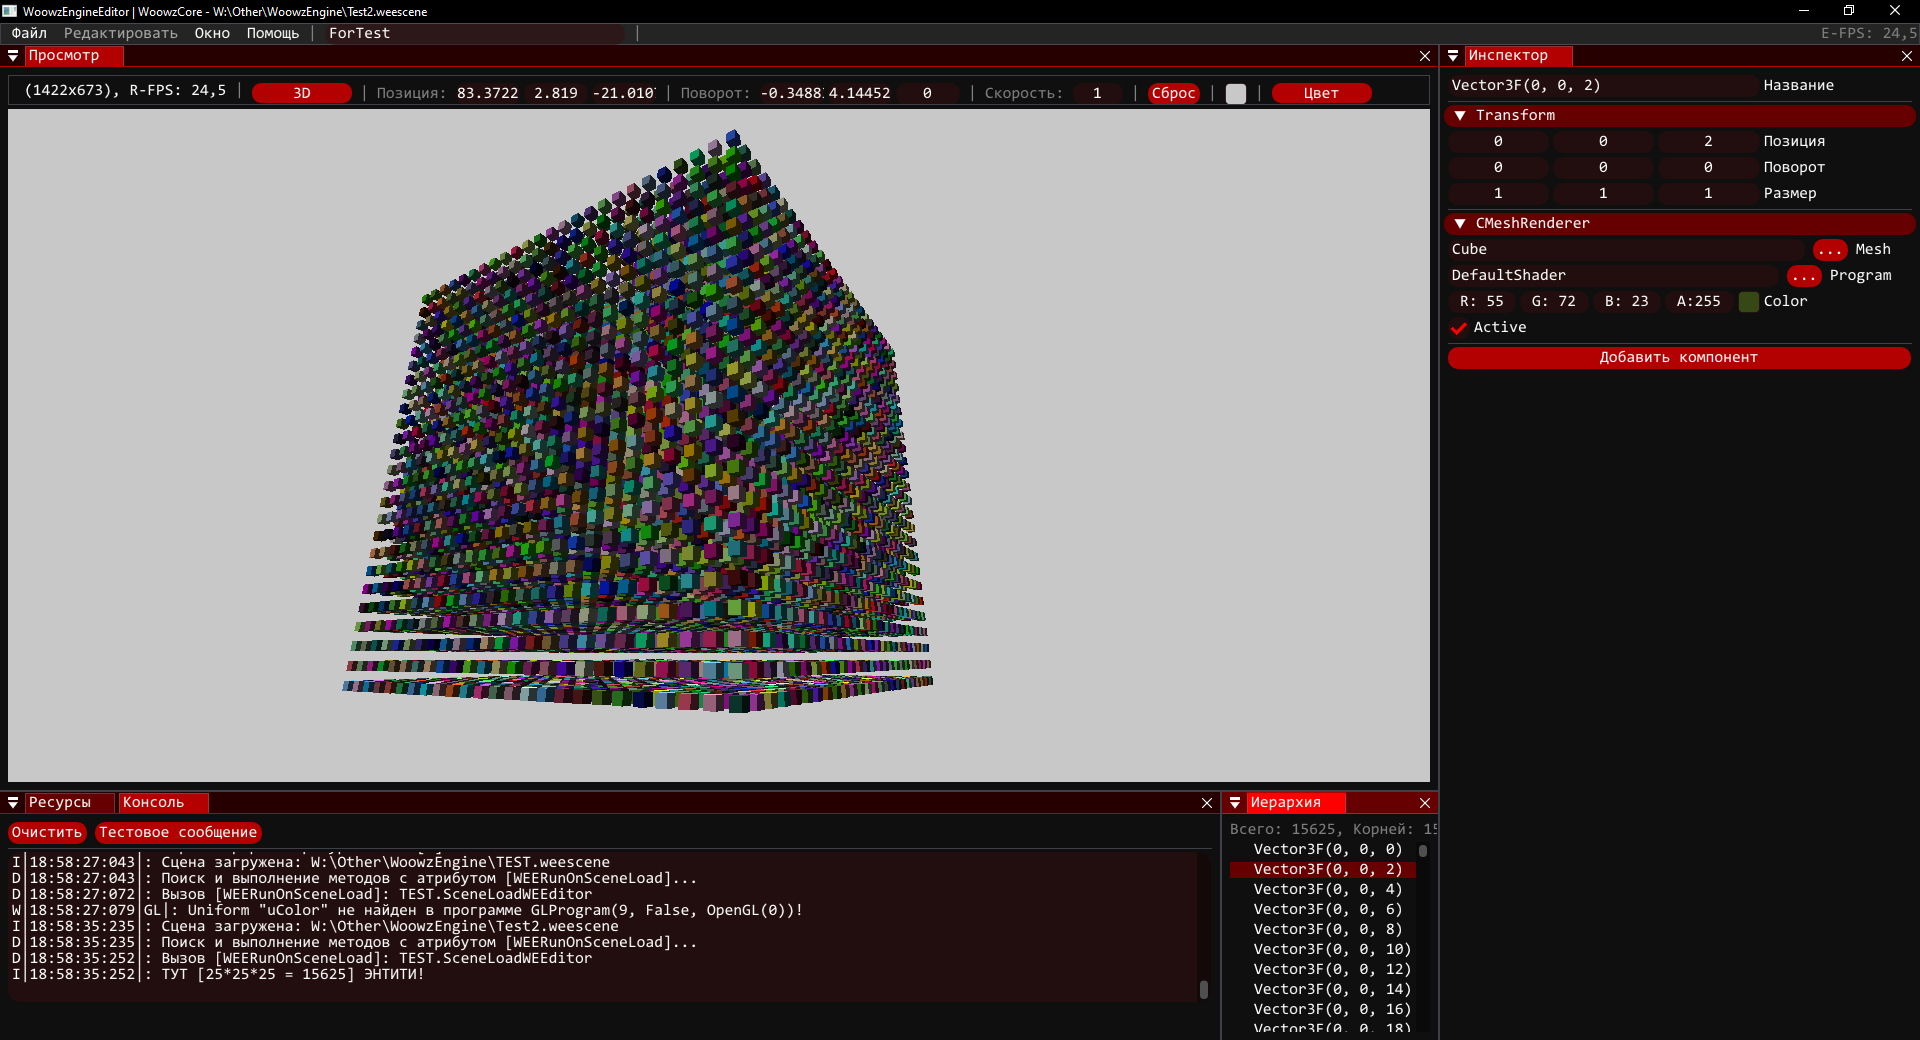
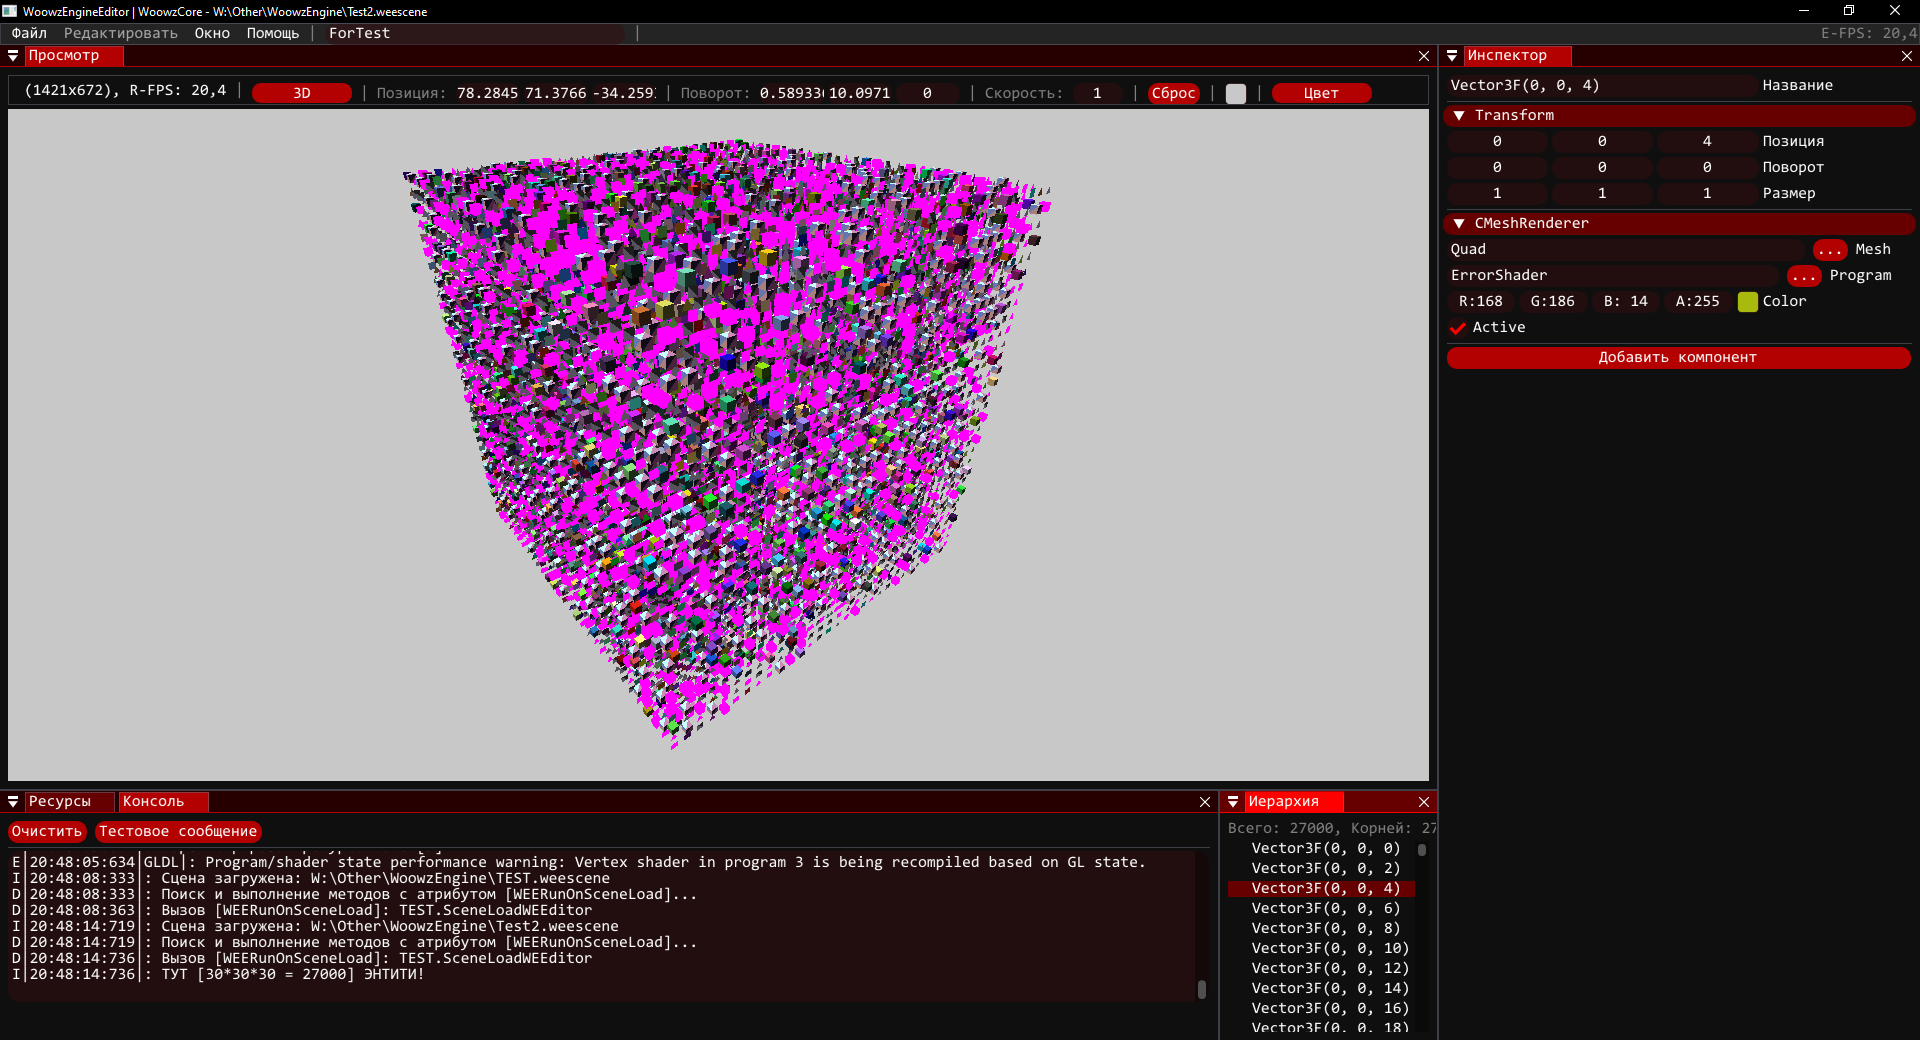
теперь использует RenderQueue

diff --git a/WoowzEngine/WoowzEngine/WEO/Component/CMeshRenderer.cs b/WoowzEngine/WoowzEngine/WEO/Component/CMeshRenderer.cs
@@ -5,6 +5,7 @@ using WEO.Processor;
 using WLI.GPU;
 using WLO.GPU;
 using WLO.Math;
+using WLO.Render;
 
 namespace WEO_Component;
 
@@ -15,7 +16,7 @@ public class CMeshRenderer : RenderComponent{
     [WEESave] public Color4B Color = new Color4B(255, 255, 255);
     [WEESave] public bool Active = true;
     
-    public override void OnRender(){
+    public override void OnRender(Vector3F CameraPosition){
         if(!Active){ return; }
 
         GLMesh?    Mesh__    = Mesh   .Resolve() as GLMesh;
@@ -23,12 +24,18 @@ public class CMeshRenderer : RenderComponent{
         
         if(Mesh__ == null || Program__ == null){ return; }
         
-        //TODO, надо сделать какую-то runtime кеширование uniforms, или что-то такоееееее я хзззз, что-бы такой хунёй не маятся
-        
-        Program__.SetUniformM4F(Program__.GetUniform("uViewProjection"), PRender.ViewProjection);
-        Program__.SetUniformM4F(Program__.GetUniform("uModelProjection"), Owner.Transform.GetWorldMatrix());
-        Program__.SetUniformV3F(Program__.GetUniform("uColor"), new Vector3F(Color.R / 255f, Color.G / 255f, Color.B / 255f));
-        
-        WE.Render.API.Draw(Mesh__, Program__);
+        WE.Render.Queue.Submit(new GLRenderQueue.Command{
+            DistanceToCamera = (ActualPosition - CameraPosition).Length,
+            IsTransparent =  IsTransparent,
+            
+            Mesh = Mesh__,
+            Program = Program__,
+            
+            Uniforms = [
+                UniformValue.CreateM4F(0, PRender.ViewProjection),
+                UniformValue.CreateM4F(1, Owner.Transform.GetWorldMatrix()),
+                UniformValue.CreateV3F(2, new Vector3F(Color.R / 255f, Color.G / 255f, Color.B / 255f))
+            ]
+        });
     }
 }

diff --git a/WoowzEngine/WoowzEngineRender/WE/Render.cs b/WoowzEngine/WoowzEngineRender/WE/Render.cs
@@ -1,5 +1,6 @@
 using WLI;
 using WLO;
+using WLO.Render;
 using WLO.Render.Hardware;
 
 namespace WE;
@@ -38,6 +39,8 @@ public static class Render{
             API = new OpenGL(ProcessLoader, new OpenGL.StartParameters{
                 DebugLogger = Parameters__.DebugLogger
             }, true);
+
+            Queue = new GLRenderQueue(API);
             
             Log(LogType_Initialization, "WoowzEngineRender запущен!");
             
@@ -65,4 +68,6 @@ public static class Render{
     }
 
     public static OpenGL API{ get; private set; } = null!;
+
+    public static GLRenderQueue Queue{ get; private set; } = null!;
 }

diff --git a/WoowzEngine/WoowzEngine/WEI/RenderComponent.cs b/WoowzEngine/WoowzEngine/WEI/RenderComponent.cs
@@ -1,5 +1,10 @@
-namespace WEI;
+using WLO.Math;
+
+namespace WEI;
 
 public abstract class RenderComponent : Component{
-    public abstract void OnRender();
+    public Vector3F ActualPosition = new Vector3F();
+    public bool     IsTransparent  = false;
+    
+    public abstract void OnRender(Vector3F CameraPosition);
 }

diff --git a/WoowzEngine/WoowzEngine/WEO/Processor/PRender.cs b/WoowzEngine/WoowzEngine/WEO/Processor/PRender.cs
@@ -10,7 +10,7 @@ public static class PRender{
         ViewProjection = Camera.GetProjectionMatrix() * Camera.GetViewMatrix();
 
         foreach(Entity E in Scene.AllEntity){
-            E.GetComponent<RenderComponent>()?.OnRender();
+            E.GetComponent<RenderComponent>()?.OnRender(Camera.Position);
         }
     }
 }

diff --git a/WoowzEngine/WoowzEngineEditor/WEE/Render.cs b/WoowzEngine/WoowzEngineEditor/WEE/Render.cs
@@ -55,6 +55,8 @@ public static class Render{
         
             WEE.Interface.CurrentScene?.Render(WEE.Editor.ViewCamera);
             
+            WE.Render.Queue.Render();
+            
         WE.Render.API.FrameStop();
     }
     
